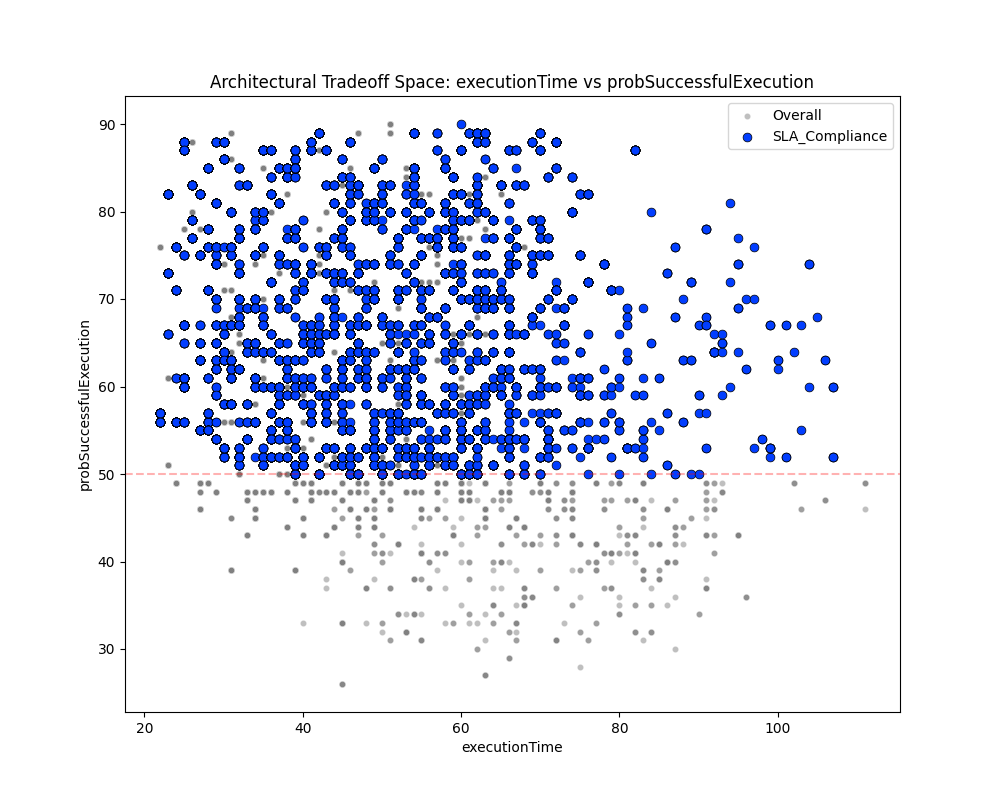
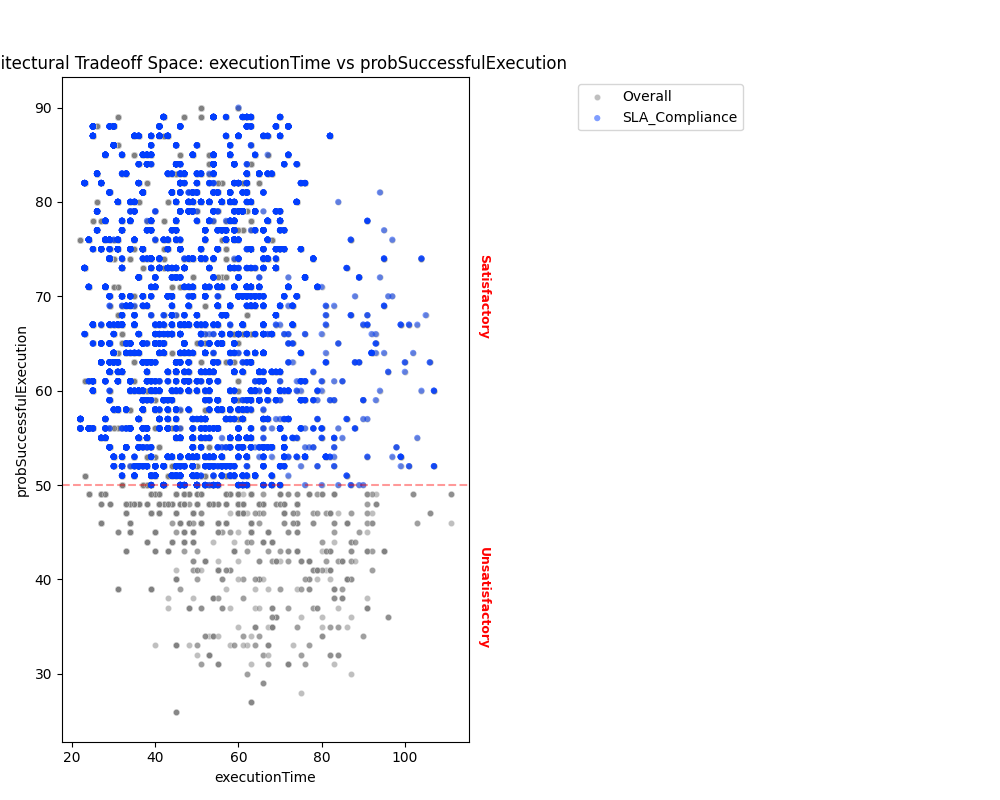
feat(viz): Enhance 2D scatter plots with axis labels, matching colors, and uniform point sizing

diff --git a/adept/analysis/visualization.py b/adept/analysis/visualization.py
@@ -135,25 +135,42 @@ def show_quality_objective_space(
         ax=ax, color='gray', alpha=alpha, label='Overall', s=20
     )
     
-    # 2. Draw segmentation lines from schemes
+    # 2. Draw segmentation lines and axis labels
+    line_color = 'red'
+    line_alpha = 0.4
+    
     x_scheme = next((s for s in schemes if s.objective_name == x_metric), None)
     y_scheme = next((s for s in schemes if s.objective_name == y_metric), None)
     
-    x_bounds = []
     if x_scheme:
+        x_bounds = []
         for b in x_scheme.bins:
             if np.isfinite(b.min_value): x_bounds.append(b.min_value)
             if np.isfinite(b.max_value): x_bounds.append(b.max_value)
-        for val in set(x_bounds):
-            ax.axvline(val, color='red', linestyle='--', alpha=0.3)
             
-    y_bounds = []
+            # Place interval label at the top (slightly offset)
+            x_min = b.min_value if np.isfinite(b.min_value) else outcomes_df[x_metric].min()
+            x_max = b.max_value if np.isfinite(b.max_value) else outcomes_df[x_metric].max()
+            ax.text((x_min + x_max) / 2, ax.get_ylim()[1] + (ax.get_ylim()[1] - ax.get_ylim()[0]) * 0.02, 
+                    b.label, color=line_color, fontsize=9, fontweight='bold', ha='center', va='bottom')
+            
+        for val in set(x_bounds):
+            ax.axvline(val, color=line_color, linestyle='--', alpha=line_alpha)
+            
     if y_scheme:
+        y_bounds = []
         for b in y_scheme.bins:
             if np.isfinite(b.min_value): y_bounds.append(b.min_value)
             if np.isfinite(b.max_value): y_bounds.append(b.max_value)
+            
+            # Place interval label at the right (slightly offset)
+            y_min = b.min_value if np.isfinite(b.min_value) else outcomes_df[y_metric].min()
+            y_max = b.max_value if np.isfinite(b.max_value) else outcomes_df[y_metric].max()
+            ax.text(ax.get_xlim()[1] + (ax.get_xlim()[1] - ax.get_xlim()[0]) * 0.02, (y_min + y_max) / 2, 
+                    b.label, color=line_color, fontsize=9, fontweight='bold', ha='left', va='center', rotation=-90)
+            
         for val in set(y_bounds):
-            ax.axhline(val, color='red', linestyle='--', alpha=0.3)
+            ax.axhline(val, color=line_color, linestyle='--', alpha=line_alpha)
 
     # 3. Highlight specific tradeoffs if requested
     if highlight_indices_map:
@@ -164,29 +181,13 @@ def show_quality_objective_space(
             if not subset.empty:
                 sns.scatterplot(
                     data=subset, x=x_metric, y=y_metric, 
-                    ax=ax, color=colors[i], label=label, s=40, edgecolors='black'
+                    ax=ax, color=colors[i], label=label, s=20, alpha=alpha, edgecolors='none'
                 )
 
-    # 4. Add region labels (optional/heuristic)
-    if x_scheme and y_scheme:
-        # We can place text labels in the "centers" of the formed rectangles
-        for xb in x_scheme.bins:
-            for yb in y_scheme.bins:
-                # Calculate center for label placement
-                # Handle inf
-                x_min = xb.min_value if np.isfinite(xb.min_value) else outcomes_df[x_metric].min()
-                x_max = xb.max_value if np.isfinite(xb.max_value) else outcomes_df[x_metric].max()
-                y_min = yb.min_value if np.isfinite(yb.min_value) else outcomes_df[y_metric].min()
-                y_max = yb.max_value if np.isfinite(yb.max_value) else outcomes_df[y_metric].max()
-                
-                cx = (x_min + x_max) / 2
-                cy = (y_min + y_max) / 2
-                
-                ax.text(cx, cy, f"{xb.label}\n{yb.label}", 
-                        alpha=0.4, fontsize=8, ha='center', va='center', 
-                        bbox=dict(facecolor='white', alpha=0.2, edgecolor='none'))
-
     ax.set_title(f"Architectural Tradeoff Space: {x_metric} vs {y_metric}")
-    ax.legend()
+    ax.legend(loc='upper left', bbox_to_anchor=(1.25, 1))
+    
+    # Adjust layout to make room for labels and legend
+    plt.tight_layout(rect=[0, 0, 0.85, 0.95])
     
     return fig

diff --git a/patterns/Toy_Example/analysis.py b/patterns/Toy_Example/analysis.py
@@ -89,6 +89,8 @@ def run_analysis(json_path: str, outdir: str, validate_integrity: bool = True) -
                 print(f"Error generating scatter plot for {x_col} vs {y_col}: {e}")
 
         # 4. Discover
+        print(f"Skipping scenario discovery for faster plot testing...")
+        """
         print(f"Discovering scenarios for {len(tradeoffs)} tradeoffs...")
         # Only discover for the current batch of tradeoffs
         # We manually call discover for each because discover_tradeoffs iterates ALL tradeoffs
@@ -108,6 +110,7 @@ def run_analysis(json_path: str, outdir: str, validate_integrity: bool = True) -
             except Exception as e:
                 print(f"    Error analyzing {tradeoff.name}: {e}")
                 all_results[f"tradeoff_{tradeoff.name}_error"] = str(e)
+        """
 
     # 5. Export
     results_path = os.path.join(outdir, "analysis_results.json")
